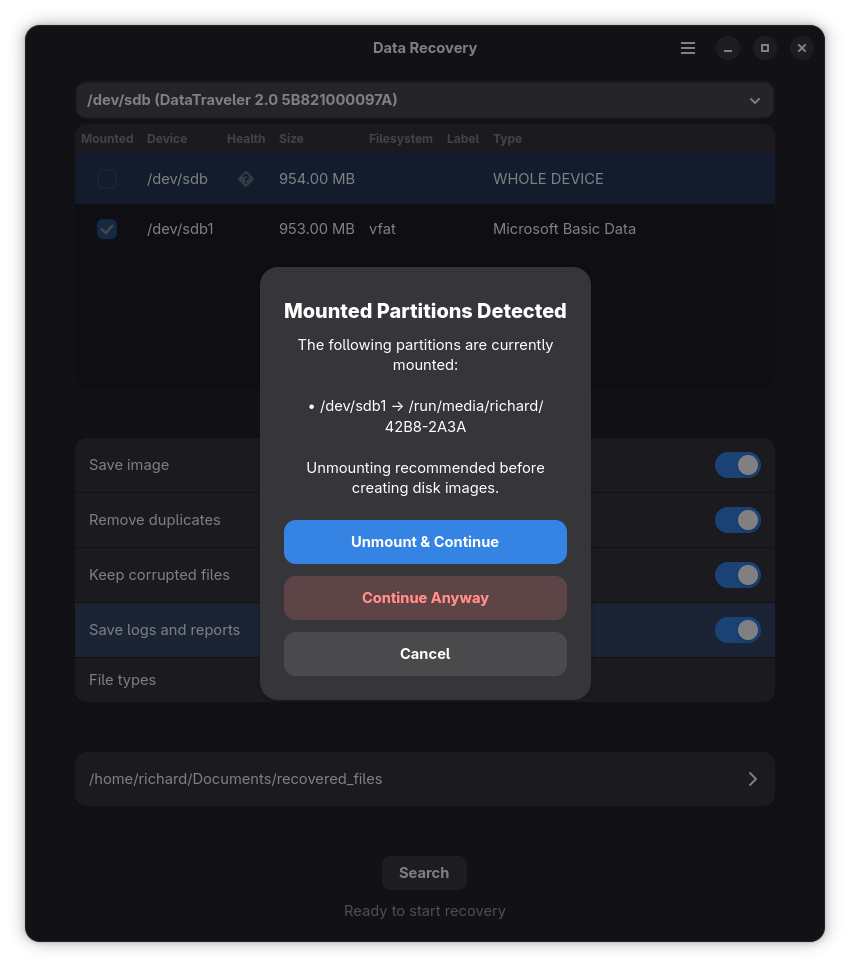
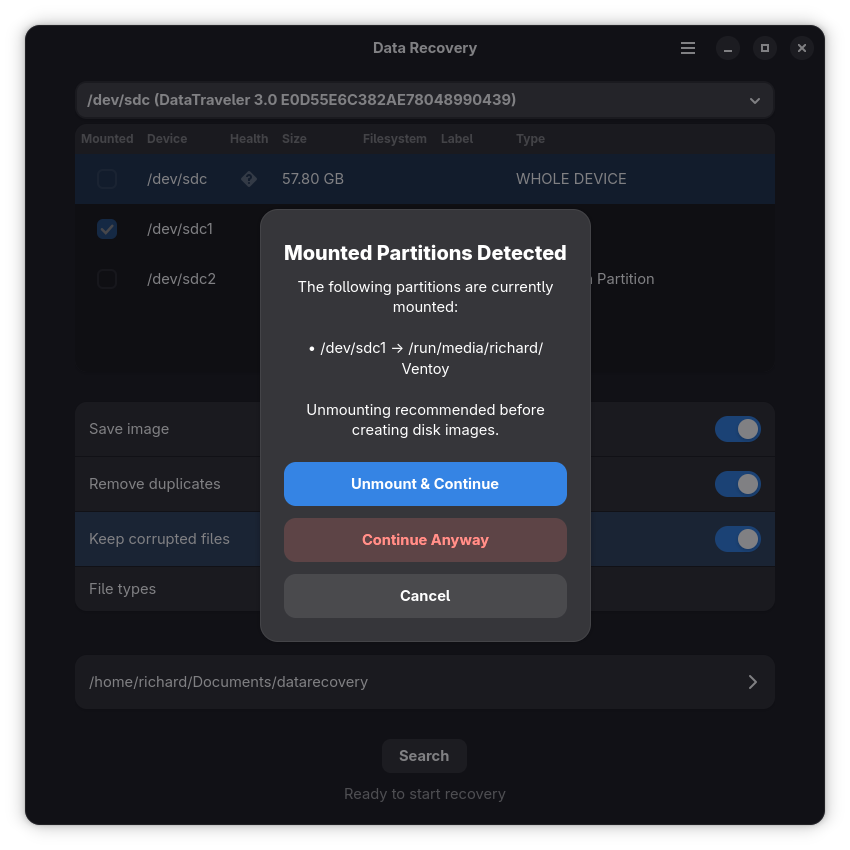
Release v0.5.0

diff --git a/CHANGELOG.md b/CHANGELOG.md
@@ -1,6 +1,6 @@
 # Changelog
 
-## [Unreleased]
+## [v0.5.0] - 2026-04-28
 ### Added
 - Progress bar updates while recovering data and organising files
 - New `utils.py` module with shared `format_bytes` and `format_size` functions
@@ -13,6 +13,7 @@
 - `MountedPartitionChecker` no longer takes an unused `device_dropdown` parameter
 - `PartitionRow.type` property renamed to `part_type` to avoid shadowing the Python built-in
 - README update
+- Updated screenshots
 
 ### Fixed
 - Duplicate `/d` flag in PhotoRec command that would confuse file output location
